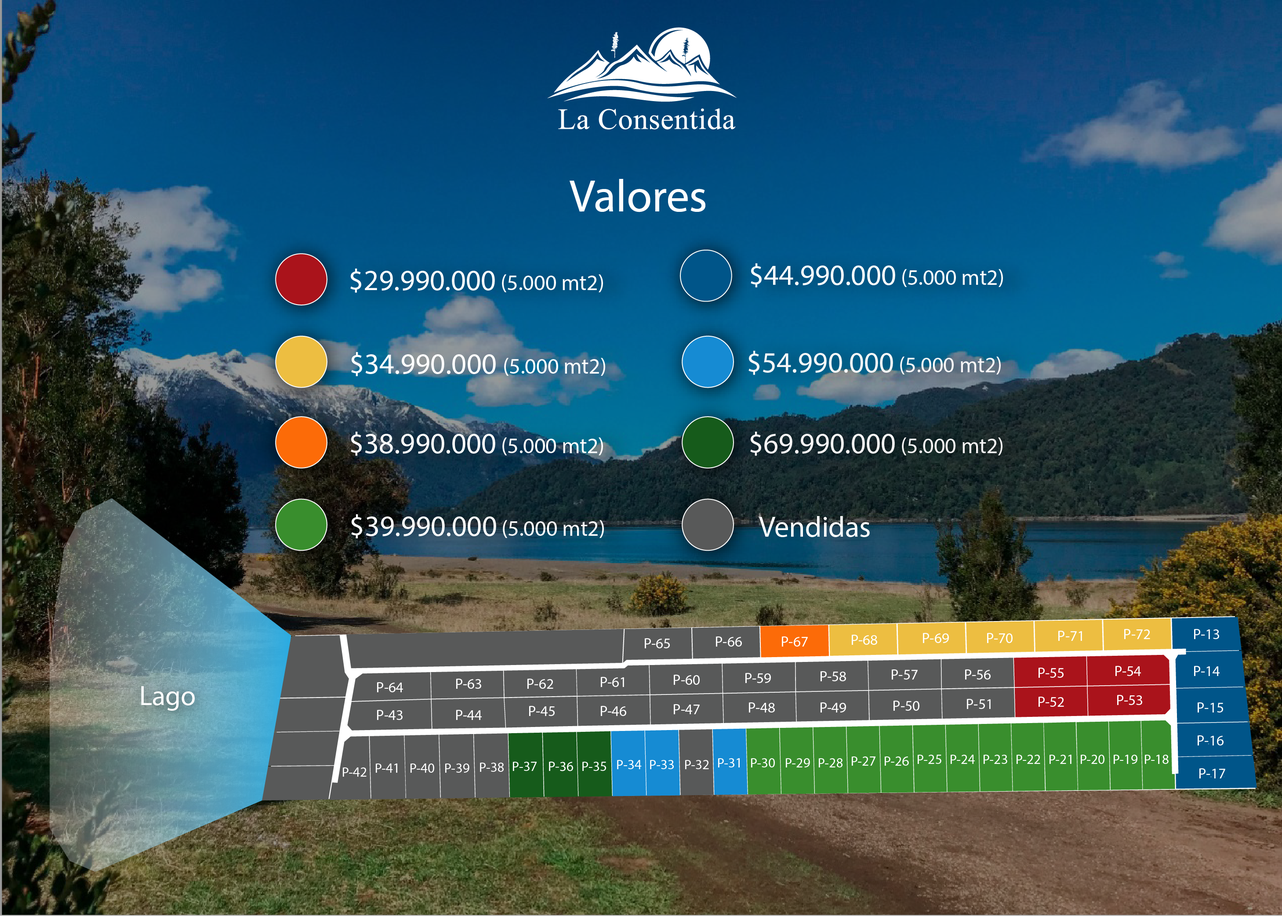
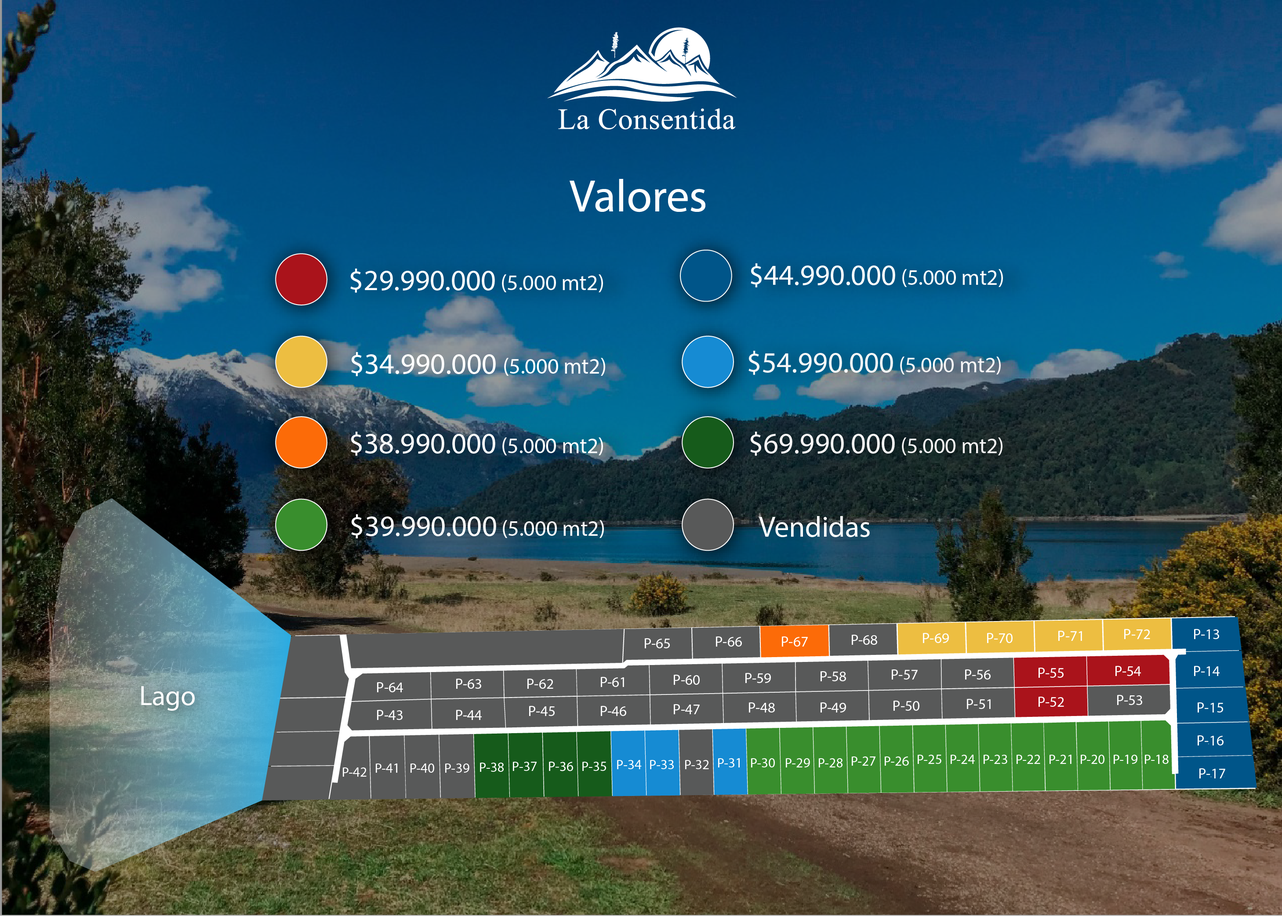
actualizando parcelas

Changed region(s): [[0.3432, 0.7798, 0.4056, 0.8733], [0.6239, 0.655, 0.7175, 0.7174], [0.8423, 0.7486, 0.9359, 0.7798]]

diff --git a/view/componentes/mapsvg/js/volantin.js b/view/componentes/mapsvg/js/volantin.js
@@ -14,9 +14,9 @@ jQuery(document).ready(function () {
             'P-57': {
                 id: "P-57",
                 'id_no_spaces': "P-57",
-                fill: "rgba(15,80,134,1)",
-                tooltip: "$10.490.000",
-                popover: "$10.490.000",
+                fill: "rgba(88,89,89,1)",
+                tooltip: "VENDIDA" ,
+                popover: "VENDIDA",
                 data: {}
             },
             'P-58': {
@@ -182,17 +182,17 @@ jQuery(document).ready(function () {
             'P-19-20': {
                 id: "P-19-20",
                 'id_no_spaces': "P-19-20",
-                fill: "rgba(207,40,59,1)",
-                tooltip: "$10.490.000",
-                popover: "$10.490.000",
+                fill: "rgba(88,89,89,1)",
+                tooltip: "VENDIDA" ,
+                popover: "VENDIDA",
                 data: {}
             },
             'P-28-29': {
                 id: "P-28-29",
                 'id_no_spaces': "P-28-29",
-                fill: "rgba(207,40,59,1)",
-                tooltip: "$10.490.000",
-                popover: "$10.490.000",
+                fill: "rgba(88,89,89,1)",
+                tooltip: "VENDIDA",
+                popover: "VENDIDA",
                 data: {}
             },
             'P-26-27': {
@@ -358,9 +358,9 @@ jQuery(document).ready(function () {
             'P-45': {
                 id: "P-45",
                 'id_no_spaces': "P-45",
-                fill: "rgba(243,185,60,1)",
-                tooltip: "$8.490.000",
-                popover: "$8.490.000",
+                fill: "rgba(88,89,89,1)",
+                tooltip: "VENDIDA",
+                popover: "VENDIDA",
                 data: {}
             },
             'P-44': {

diff --git a/view/componentes/mapsvg/js/laconsentida.js b/view/componentes/mapsvg/js/laconsentida.js
@@ -23,9 +23,9 @@
                     'p-68': {
                         id: "p-68",
                         'id_no_spaces': "p-68",
-                        fill: "rgba(247,188,4,1)",
-                        tooltip: "$34.990.000",
-                        popover: "$34.990.000",
+                        fill: "rgba(88,89,89,1)",
+                        tooltip: "NO DISPONIBLE",
+                        popover: "NO DISPONIBLE",
                         data: {}
                     },
                     'p-69': {
@@ -358,9 +358,9 @@
                     'p-53': {
                         id: "p-53",
                         'id_no_spaces': "p-53",
-                        fill: "rgba(190,46,56,1)",
-                        tooltip: "$29.990.000",
-                        popover: "$29.990.000",
+                        fill: "rgba(88,89,89,1)",
+                        tooltip: "NO DISPONIBLE",
+                        popover: "NO DISPONIBLE",
                         data: {}
                     },
                     'p-54': {
